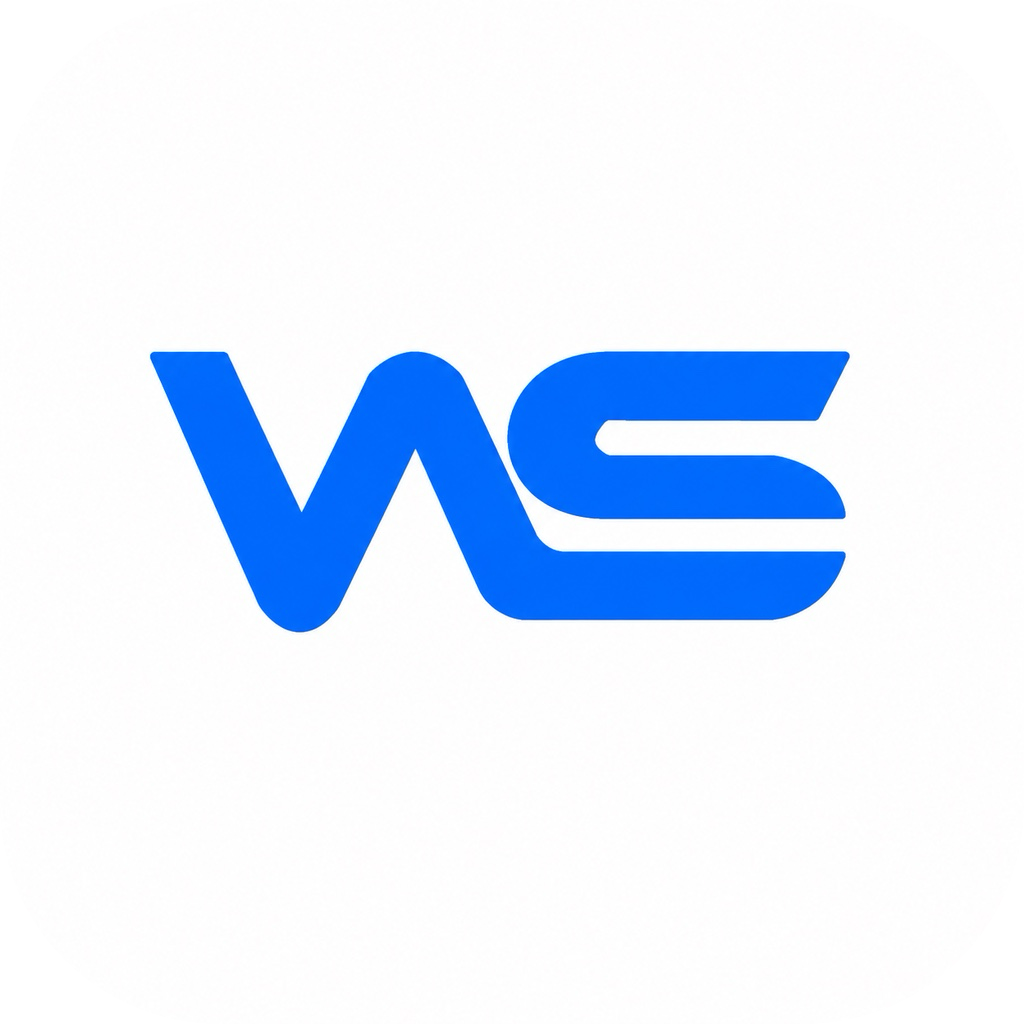
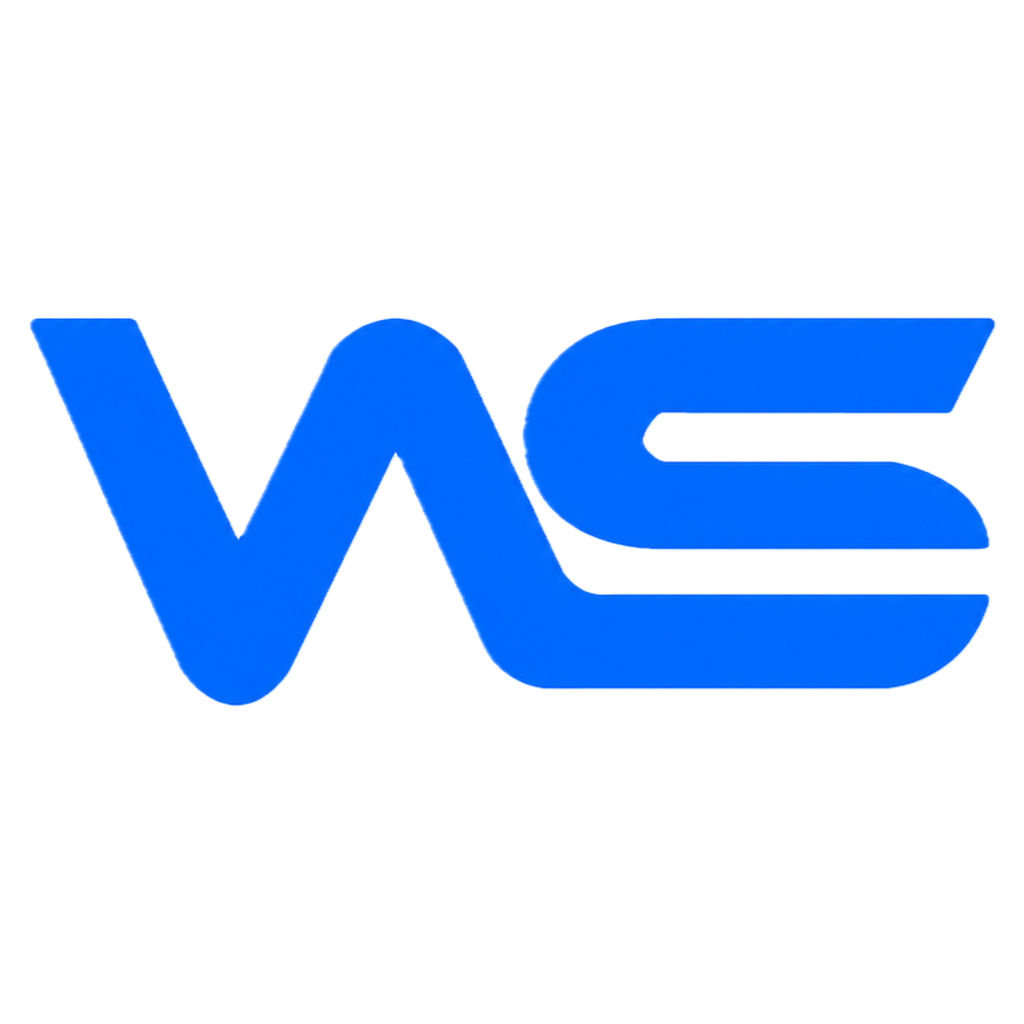
fix(branding): use Weishan identity in desktop runtime

Changed region(s): [[0.0312, 0.3125, 0.9688, 0.6875]]

diff --git a/tests/api/desktop-runtime-branding-logo.test.js b/tests/api/desktop-runtime-branding-logo.test.js
@@ -1,0 +1,87 @@
+#!/usr/bin/env node
+
+const assert = require("node:assert/strict");
+const crypto = require("node:crypto");
+const fs = require("node:fs");
+const path = require("node:path");
+const { Jimp, intToRGBA } = require("../../apps/desktop/node_modules/jimp");
+
+const ROOT = path.resolve(__dirname, "../..");
+const MAIN_PATH = path.join(ROOT, "apps/desktop/src/main.js");
+const SOURCE_LOGO_PATH = path.join(ROOT, "apps/desktop/src/assets/ws-logo.png");
+const APP_ICON_PATH = path.join(ROOT, "apps/desktop/src/assets/weishan-icon-rounded.png");
[1 lines of base64/hex data omitted]
+
+function sha256(buffer) {
+  return crypto.createHash("sha256").update(buffer).digest("hex");
+}
+
+function pngMetadata(buffer) {
+  assert.equal(buffer.subarray(1, 4).toString("ascii"), "PNG", "asset must be PNG");
+  assert.equal(buffer.subarray(12, 16).toString("ascii"), "IHDR", "asset must have PNG IHDR");
+  return {
+    width:buffer.readUInt32BE(16),
+    height:buffer.readUInt32BE(20),
+    colorType:buffer.readUInt8(25)
+  };
+}
+
+function alphaBounds(image) {
+  let minX = image.width;
+  let minY = image.height;
+  let maxX = -1;
+  let maxY = -1;
+  image.scan(0, 0, image.width, image.height, (x, y, index) => {
+    if (image.bitmap.data[index + 3] === 0) return;
+    minX = Math.min(minX, x);
+    minY = Math.min(minY, y);
+    maxX = Math.max(maxX, x);
+    maxY = Math.max(maxY, y);
+  });
+  return { minX, minY, maxX, maxY, width:maxX - minX + 1, height:maxY - minY + 1 };
+}
+
+async function main() {
+  const mainSource = fs.readFileSync(MAIN_PATH, "utf8");
+  const sourceLogo = fs.readFileSync(SOURCE_LOGO_PATH);
+  const appIcon = fs.readFileSync(APP_ICON_PATH);
+  const sourceMeta = pngMetadata(sourceLogo);
+  const iconMeta = pngMetadata(appIcon);
+  const sourceRatio = sourceMeta.width / sourceMeta.height;
+  const renderedWidth = 1024;
+  const renderedHeight = 447;
+  const renderedRatio = renderedWidth / renderedHeight;
+  const ratioErrorPercent = Math.abs(renderedRatio - sourceRatio) / sourceRatio * 100;
+
+  assert.equal(sha256(sourceLogo), EXPECTED_SOURCE_SHA256, "canonical logo must remain the approved source artwork");
+  assert.deepEqual(sourceMeta, { width:2500, height:1092, colorType:6 }, "canonical source dimensions and alpha must remain intact");
+  assert.deepEqual(iconMeta, { width:1024, height:1024, colorType:6 }, "app icon must remain a square RGBA canvas");
+  assert.ok(ratioErrorPercent <= 0.5, "contain-fit must preserve source aspect ratio within integer rounding tolerance");
+
+  const sourceImage = await Jimp.read(SOURCE_LOGO_PATH);
+  const iconImage = await Jimp.read(APP_ICON_PATH);
+  const sourceBounds = alphaBounds(sourceImage);
+  const iconBounds = alphaBounds(iconImage);
+  const sourceContentRatio = sourceBounds.width / sourceBounds.height;
+  const iconContentRatio = iconBounds.width / iconBounds.height;
+  const contentRatioErrorPercent = Math.abs(iconContentRatio - sourceContentRatio) / sourceContentRatio * 100;
+
+  assert.ok(contentRatioErrorPercent <= 0.5, "visible logo content must preserve its original aspect ratio");
+  assert.ok(iconBounds.minY >= 288 && iconBounds.maxY <= 734, "visible logo content must remain inside the centered contain-fit region");
+  for (const [x, y] of [[0, 0], [1023, 0], [0, 1023], [1023, 1023]]) {
+    assert.equal(intToRGBA(iconImage.getPixelColor(x, y)).a, 0, "square icon padding must remain transparent");
+  }
+
+  assert.match(mainSource, /const APP_NAME = "Weishan";/, "runtime application name must be Weishan");
+  assert.match(mainSource, /path\.join\(__dirname, "assets\/weishan-icon-rounded\.png"\)/, "runtime must use the proportional repository icon");
+  assert.match(mainSource, /app\.dock\.setIcon\(img\)/, "source runtime must set the macOS Dock icon");
+  assert.match(mainSource, /title: APP_NAME/, "main window must use the Weishan title");
+  assert.doesNotMatch(mainSource, /Desktop\/weishan-logo\.png/, "runtime must not depend on the Desktop engineering source path");
+
+  console.log("DESKTOP_RUNTIME_BRANDING_LOGO PASS");
+}
+
+main().catch((error) => {
+  console.error(error);
+  process.exitCode = 1;
+});

diff --git a/apps/desktop/src/main.js b/apps/desktop/src/main.js
@@ -19,7 +19,7 @@ const { registerVideoProviderIpcHandlers } = require("./main/videoProviderIpc");
 const { registerImageToolsIpcHandlers } = require("./main/imageToolsIpc");
 const { openValidatedExternal } = require("./shared/ipcTrustBoundary");
 
-const APP_NAME = "weishan";
+const APP_NAME = "Weishan";
 const APP_ID = "ai.weishan.desktop";
 const WEISHAN_OFFICIAL_WEBSITE_URL = "https://weishan.ai/";
 
@@ -183,7 +183,7 @@ async function openWhitelistedDesktopApp(appId) {
 
 function iconPath() {
   const candidates = [
-    path.join(__dirname, "assets/ws-logo.png"),
+    path.join(__dirname, "assets/weishan-icon-rounded.png"),
     path.join(__dirname, "assets/WS-logo.icns")
   ];
   return candidates.find((p) => fs.existsSync(p)) || candidates[0];
@@ -658,7 +658,7 @@ function createWindow() {
 
   Menu.setApplicationMenu(Menu.buildFromTemplate([
     { label: APP_NAME, submenu: [
-      { role: "about", label: "关于 weishan" },
+      { role: "about", label: "关于 Weishan" },
       { type: "separator" },
       {
         label:"Provider Credential Store…",
@@ -687,7 +687,7 @@ function createWindow() {
         }
       },
       { type: "separator" },
-      { role: "quit", label: "退出 weishan" }
+      { role: "quit", label: "退出 Weishan" }
     ] },
     { label: "File", submenu: [{ role: "close" }] },
     { label: "Edit", submenu: editMenu() },

diff --git a/scripts/verify.js b/scripts/verify.js
@@ -50,6 +50,7 @@ function runCore() {
   runStep("Secret scan", "npm", ["run", "secrets:scan"]);
   runStep("Version check", "npm", ["run", "version:check"]);
   runStep("E2E canonical runtime launch guard", "node", ["tests/api/e2e-canonical-runtime-launch-guard.test.js"]);
+  runStep("Desktop runtime branding logo", "node", ["tests/api/desktop-runtime-branding-logo.test.js"]);
   runStep("Healthcheck", "npm", ["run", "healthcheck"]);
   runStep("Security core trust boundary effectiveness", "node", ["tests/api/security-core-trust-boundary-effectiveness.test.js"]);
   runStep("IPC core effectiveness", "node", ["tests/api/ipc-core-effectiveness.test.js"]);

diff --git a/tests/e2e/runtime-identity.spec.js b/tests/e2e/runtime-identity.spec.js
@@ -19,10 +19,10 @@ test("launches the canonical source dev runtime, not a packaged duplicate", asyn
       title: process && process.title
     }));
     expect(mainRuntime.isPackaged).toBe(false);
-    expect(mainRuntime.appName).toBe("weishan");
+    expect(mainRuntime.appName).toBe("Weishan");
     expect(mainRuntime.userData).toContain("weishan");
     if (mainRuntime.title) {
-      expect(mainRuntime.title).toBe("weishan");
+      expect(mainRuntime.title).toBe("Weishan");
     }
 
     await gotoRoute(app.page, "home");

diff --git a/apps/desktop/src/assets/README.md b/apps/desktop/src/assets/README.md
@@ -1,0 +1,6 @@
+# Weishan desktop brand assets
+
[1 lines of base64/hex data omitted]
+- `weishan-icon-rounded.png` is the static source-development application icon. It uses a transparent 1024×1024 canvas and a centered 1024×447 bicubic contain-fit of the complete canonical artwork at `(0, 288)`.
+
+The source artwork is always treated as one unit. Its colors, proportions, and content are not cropped or rearranged. Asset generation is an engineering-time operation; the desktop runtime never reads the Desktop source path or resizes the logo.
